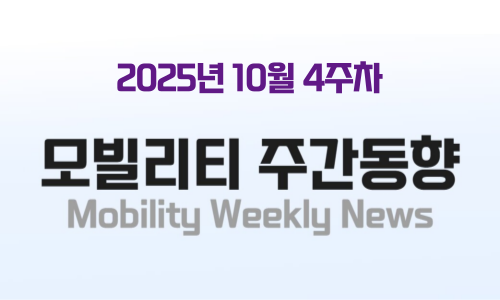
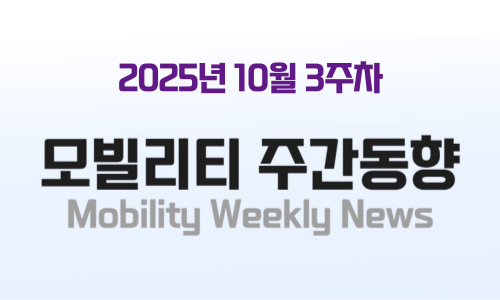
week index 수정

Changed region(s): [[0.21, 0.21, 0.75, 0.33]]

diff --git a/archive/2025/10/index.html b/archive/2025/10/index.html
@@ -140,19 +140,31 @@
         </a>
 
         <a href="week2.html" class="week-card">
-          <div class="week-image" style="background-image: url('week2.png');"></div>
+          <div class="week-image" style="background-image: url('week3.png');"></div>
           <div class="week-content">
             <div class="week-title">2025년 10월 3주차</div>
             <div class="week-subtitle">
+              산업단지 근로자 통근버스 맞춤형 서비스 ‘산단타요’ 앱 출시<br>롯데, KTX울산역 복합환승센터 사업 철회<br>남산1호터널 경유 광역버스 이용요금 과부과 사례에 따른 환불진행
             </div>
           </div>
         </a>
 
         <a href="week3.html" class="week-card">
-          <div class="week-image" style="background-image: url('week3.png');"></div>
+          <div class="week-image" style="background-image: url('week4.png');"></div>
           <div class="week-content">
             <div class="week-title">2025년 10월 4주차</div>
             <div class="week-subtitle">
+              페달오조작 방지장치, 배터리 잔존수명 표시장치 의무화 추진<br>K-패스 이용자, 자동차 보험료 할인 추진<br>12월, 자율주행버스 운행<br>시내버스 공공관리제 2027년 전면 시행 목표 차질<br>절차 무시하고 도입한 3칸 굴절버스 논란
+            </div>
+          </div>
+        </a>
+
+        <a href="week3.html" class="week-card">
+          <div class="week-image" style="background-image: url('week5.png');"></div>
+          <div class="week-content">
+            <div class="week-title">2025년 10월 5주차</div>
+            <div class="week-subtitle">
+              페달오조작 방지장치, 배터리 잔존수명 표시장치 의무화 추진<br>K-패스 이용자, 자동차 보험료 할인 추진<br>12월, 자율주행버스 운행<br>시내버스 공공관리제 2027년 전면 시행 목표 차질<br>절차 무시하고 도입한 3칸 굴절버스 논란
             </div>
           </div>
         </a>
